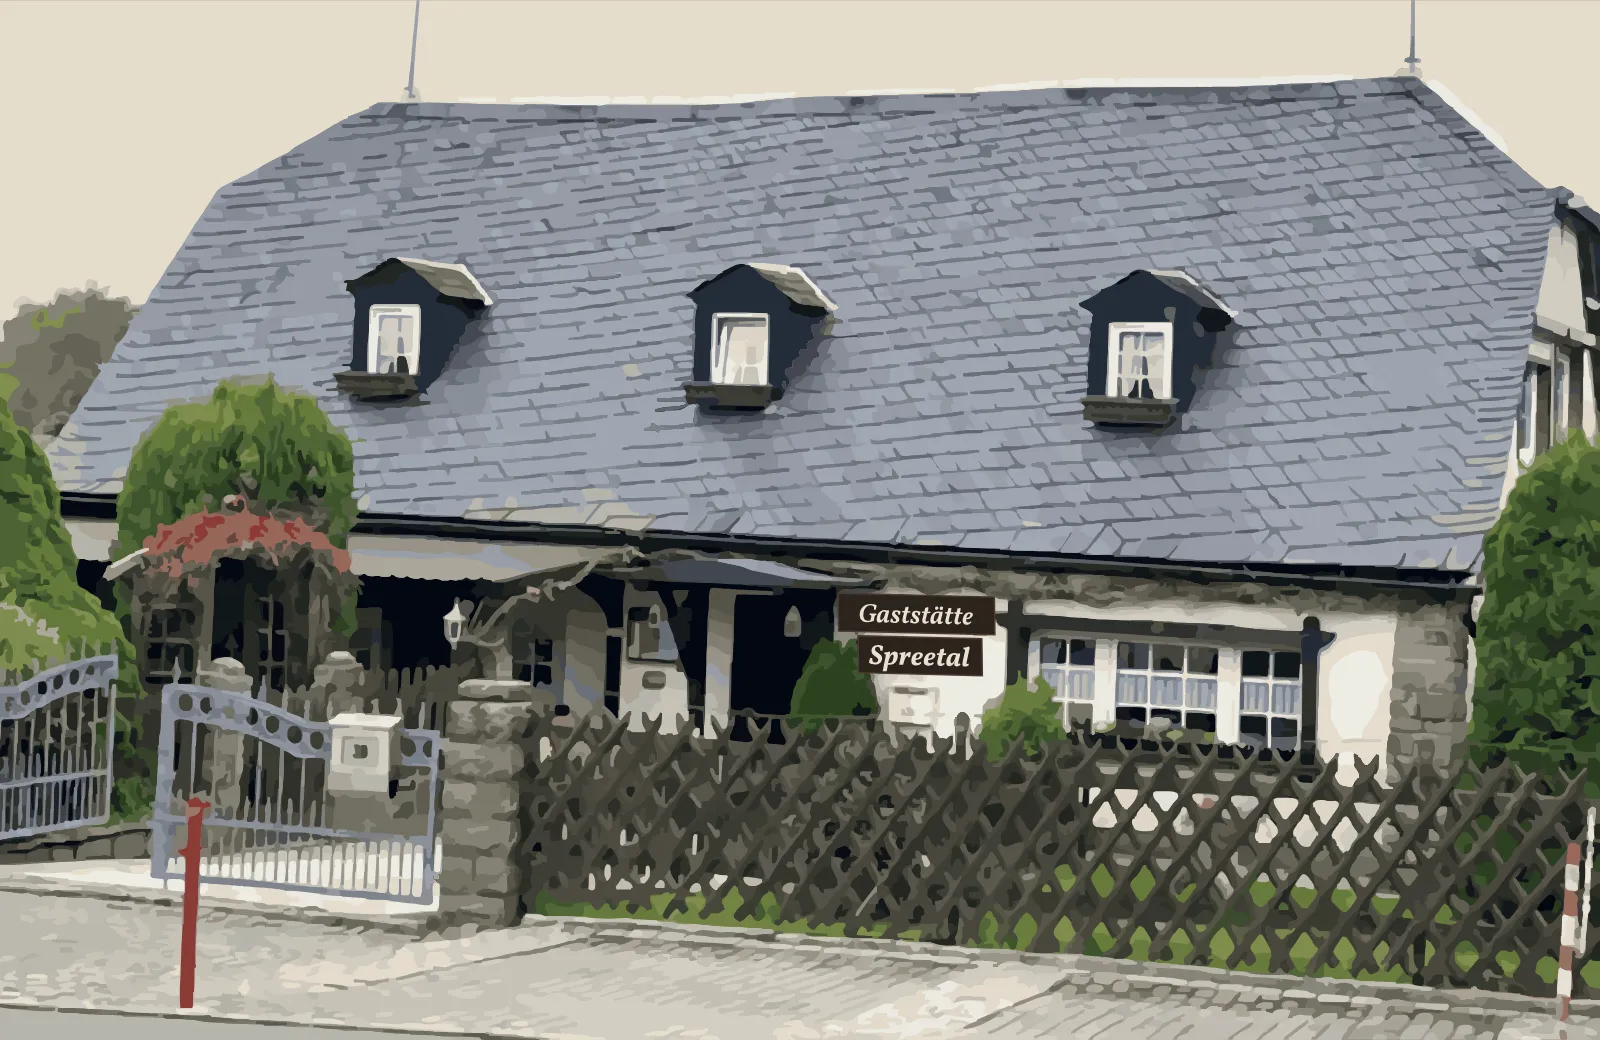
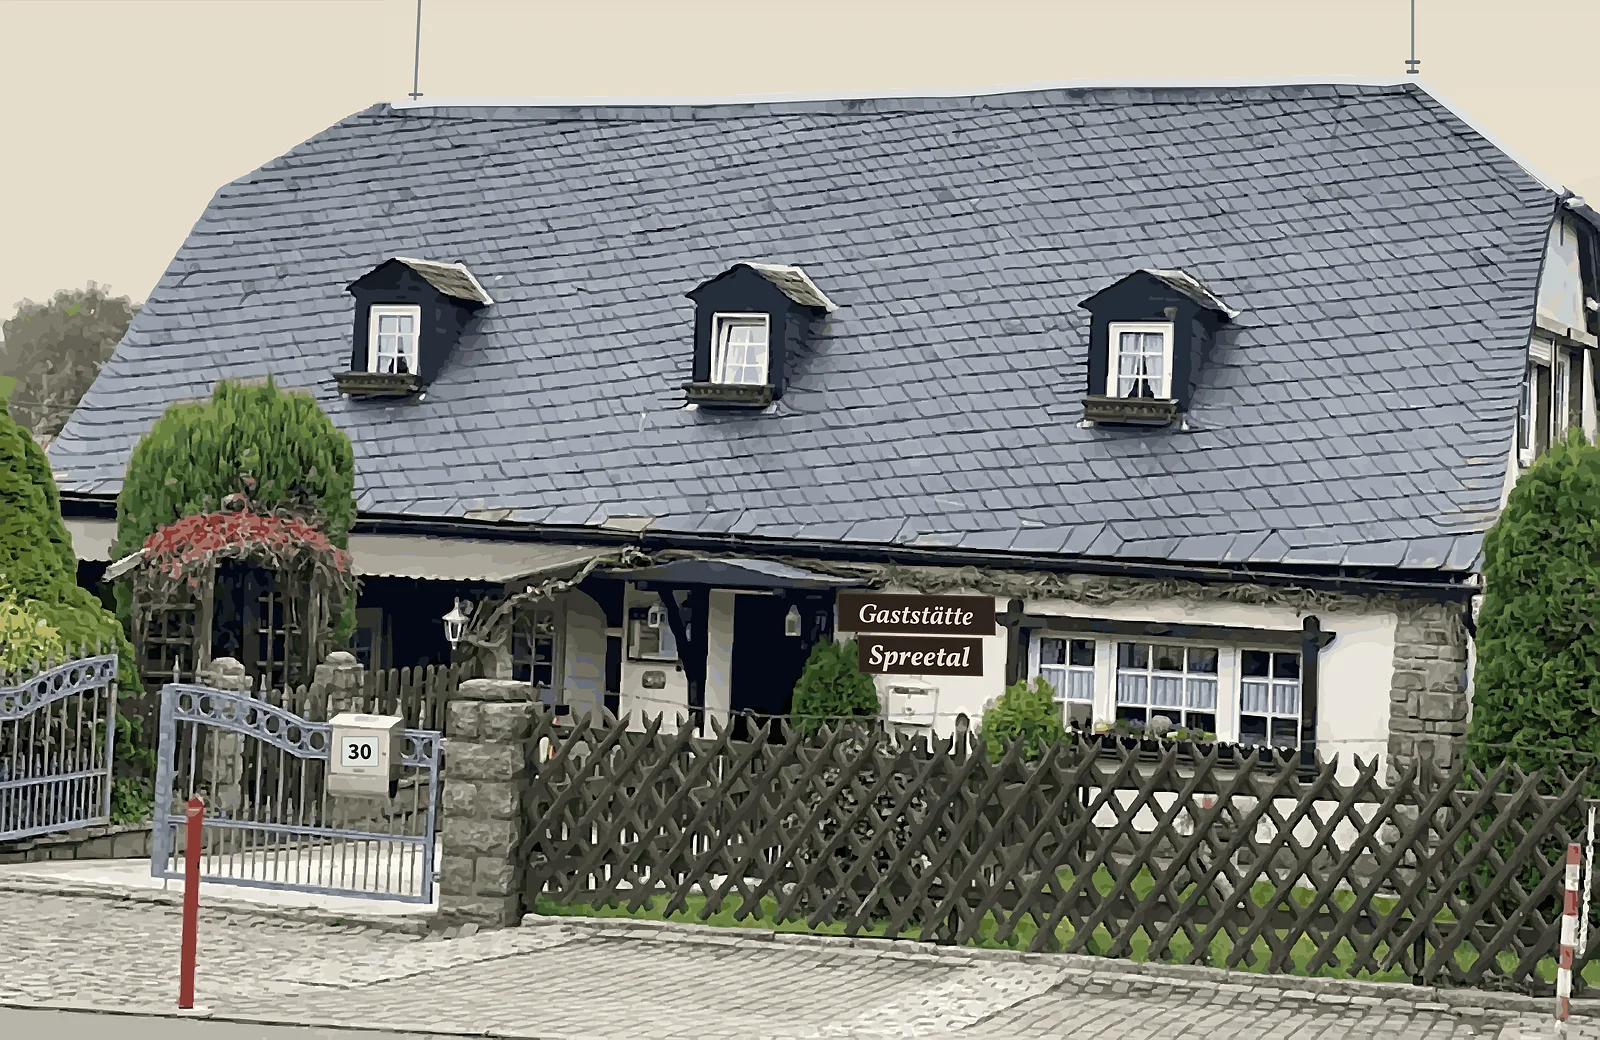
Spreetal-Entwurf: Hauszeichnung geschärft und Grafikfehler behoben
- neu berechnet in doppelter Auflösung mit weniger Weichzeichnung und
  mehr Farbstufen: Schiefer, Zaun, Fenster und Tor deutlich schärfer
- heller Rand vom alten Himmel an First und Bäumen entfernt
- Firstblech und Blech am rechten Walm sauber entlang der gemessenen
  Dachkante nachgezogen, Antennen neu gezeichnet
- Hausnummer am Briefkasten las sich als „10“, jetzt korrekt „30“
- rechte Dachkante vor der Giebelwand geglättet

Claude-Session: https://claude.ai/code/session_01VoGsxRsgqfpBn5JGw4aMan

Changed region(s): [[0.0, 0.0, 1.0, 1.0]]

diff --git a/projekte/gaststaette-spreetal/LIESMICH.md b/projekte/gaststaette-spreetal/LIESMICH.md
@@ -69,8 +69,9 @@ HTML nichts). Bildnachweis im Impressum ergänzen.
 - Die Zeichnung im Kopfbereich (`bilder/haus-900` und `haus-1600`, WebP mit JPG) ist 1:1
   aus dem Straßenfoto nachgezeichnet: das Foto wurde zu flächigen Malfarben vereinfacht,
   in Vektorflächen umgewandelt und als Grafik ausgegeben. Himmel in den warmen Farben der
-  Seite, das Auto rechts weggelassen, die Holzschilder „Gaststätte / Spreetal“ gestochen
-  scharf nachgesetzt (Vollkorn). Weil die Zeichnung auf einem Foto von Gästen beruht, gilt
+  Seite, das Auto rechts weggelassen. Gestochen scharf nachgesetzt: die Holzschilder
+  „Gaststätte / Spreetal“ (Vollkorn), die Hausnummer 30 am Briefkasten, das Firstblech
+  entlang der gemessenen Dachkante und die beiden Antennen. Weil die Zeichnung auf einem Foto von Gästen beruht, gilt
   dafür dasselbe wie für die übrigen Fotos: vor dem Livegang Erlaubnis einholen oder mit
   einem eigenen Foto der Gaststätte neu erzeugen.
 - Die getäfelten Wände der Gaststube (graubraune Felder mit hellen Rahmen) bilden den
